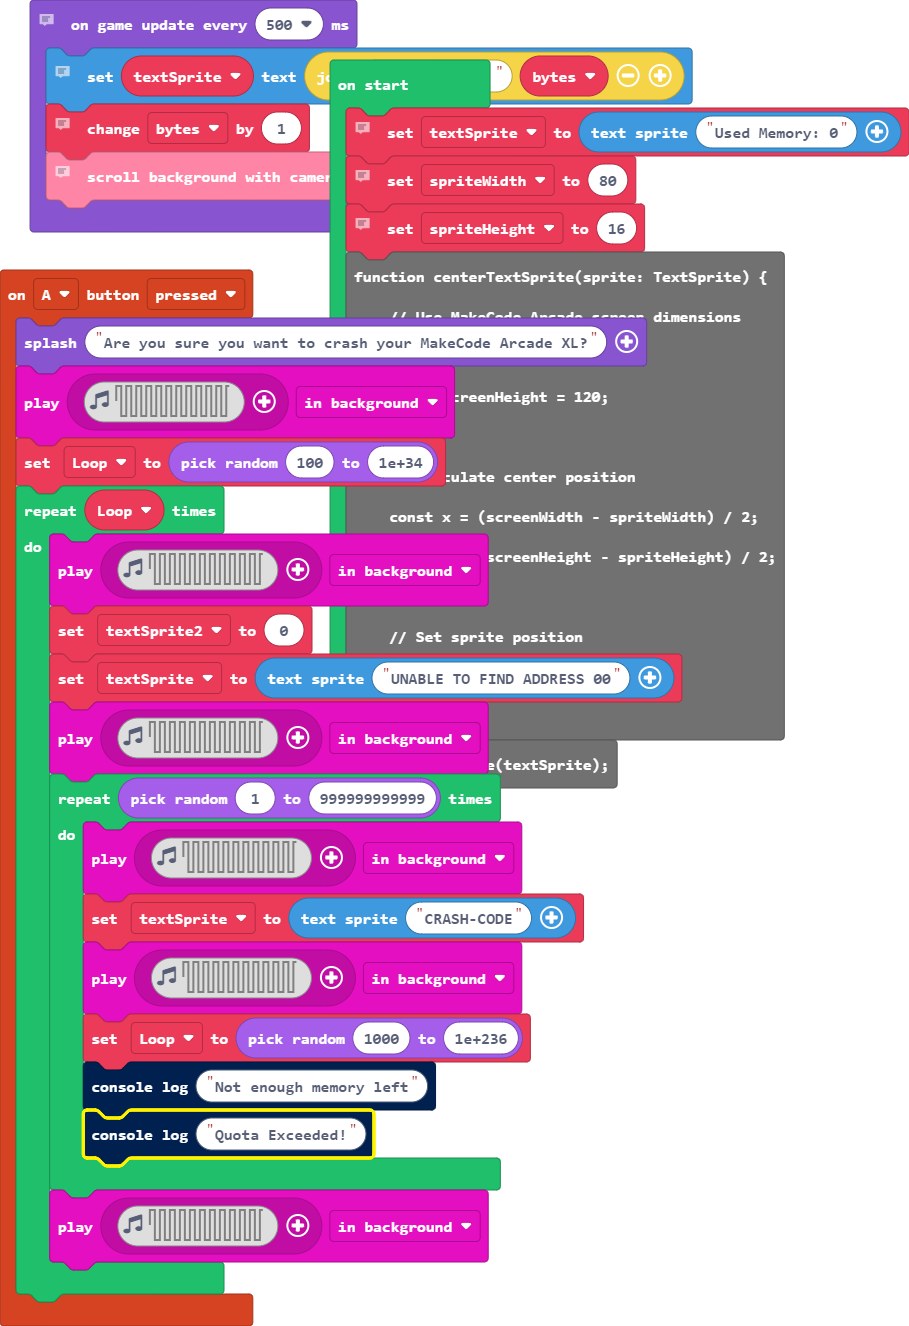
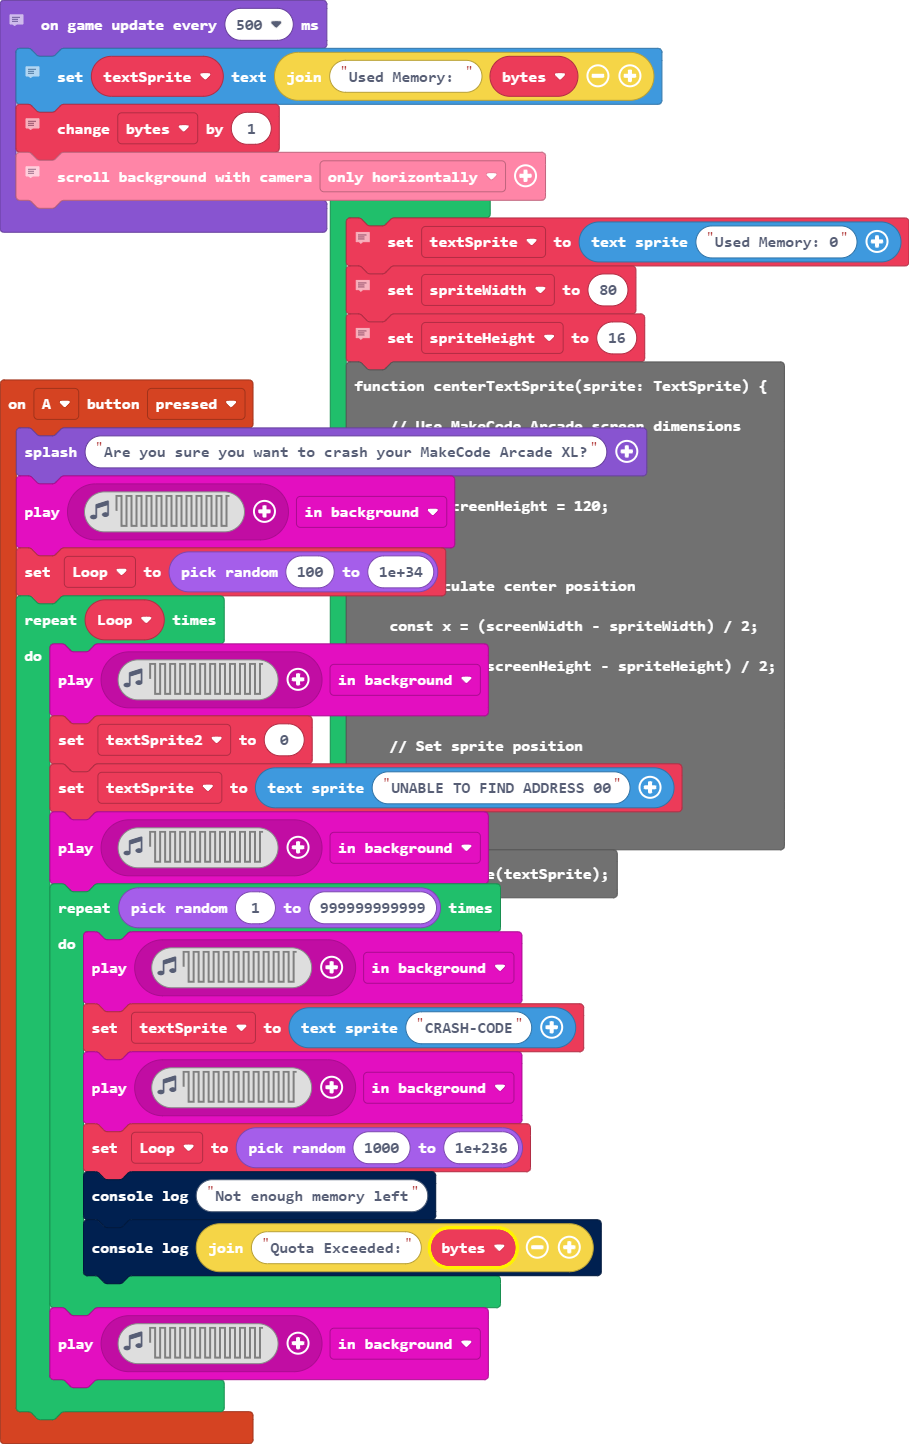
Viewing Quota:

diff --git a/main.ts b/main.ts
@@ -16,7 +16,7 @@ controller.A.onEvent(ControllerButtonEvent.Pressed, function () {
             music.play(music.createSoundEffect(WaveShape.Square, 5000, 5000, 255, 255, 1000, SoundExpressionEffect.None, InterpolationCurve.Curve), music.PlaybackMode.InBackground)
             Loop = randint(1000, 1e+236)
             console.log("Not enough memory left")
-            console.log("Quota Exceeded!")
+            console.log("Quota Exceeded:" + bytes)
         }
         music.play(music.createSoundEffect(WaveShape.Square, 5000, 5000, 255, 255, 1000, SoundExpressionEffect.None, InterpolationCurve.Curve), music.PlaybackMode.InBackground)
     }
